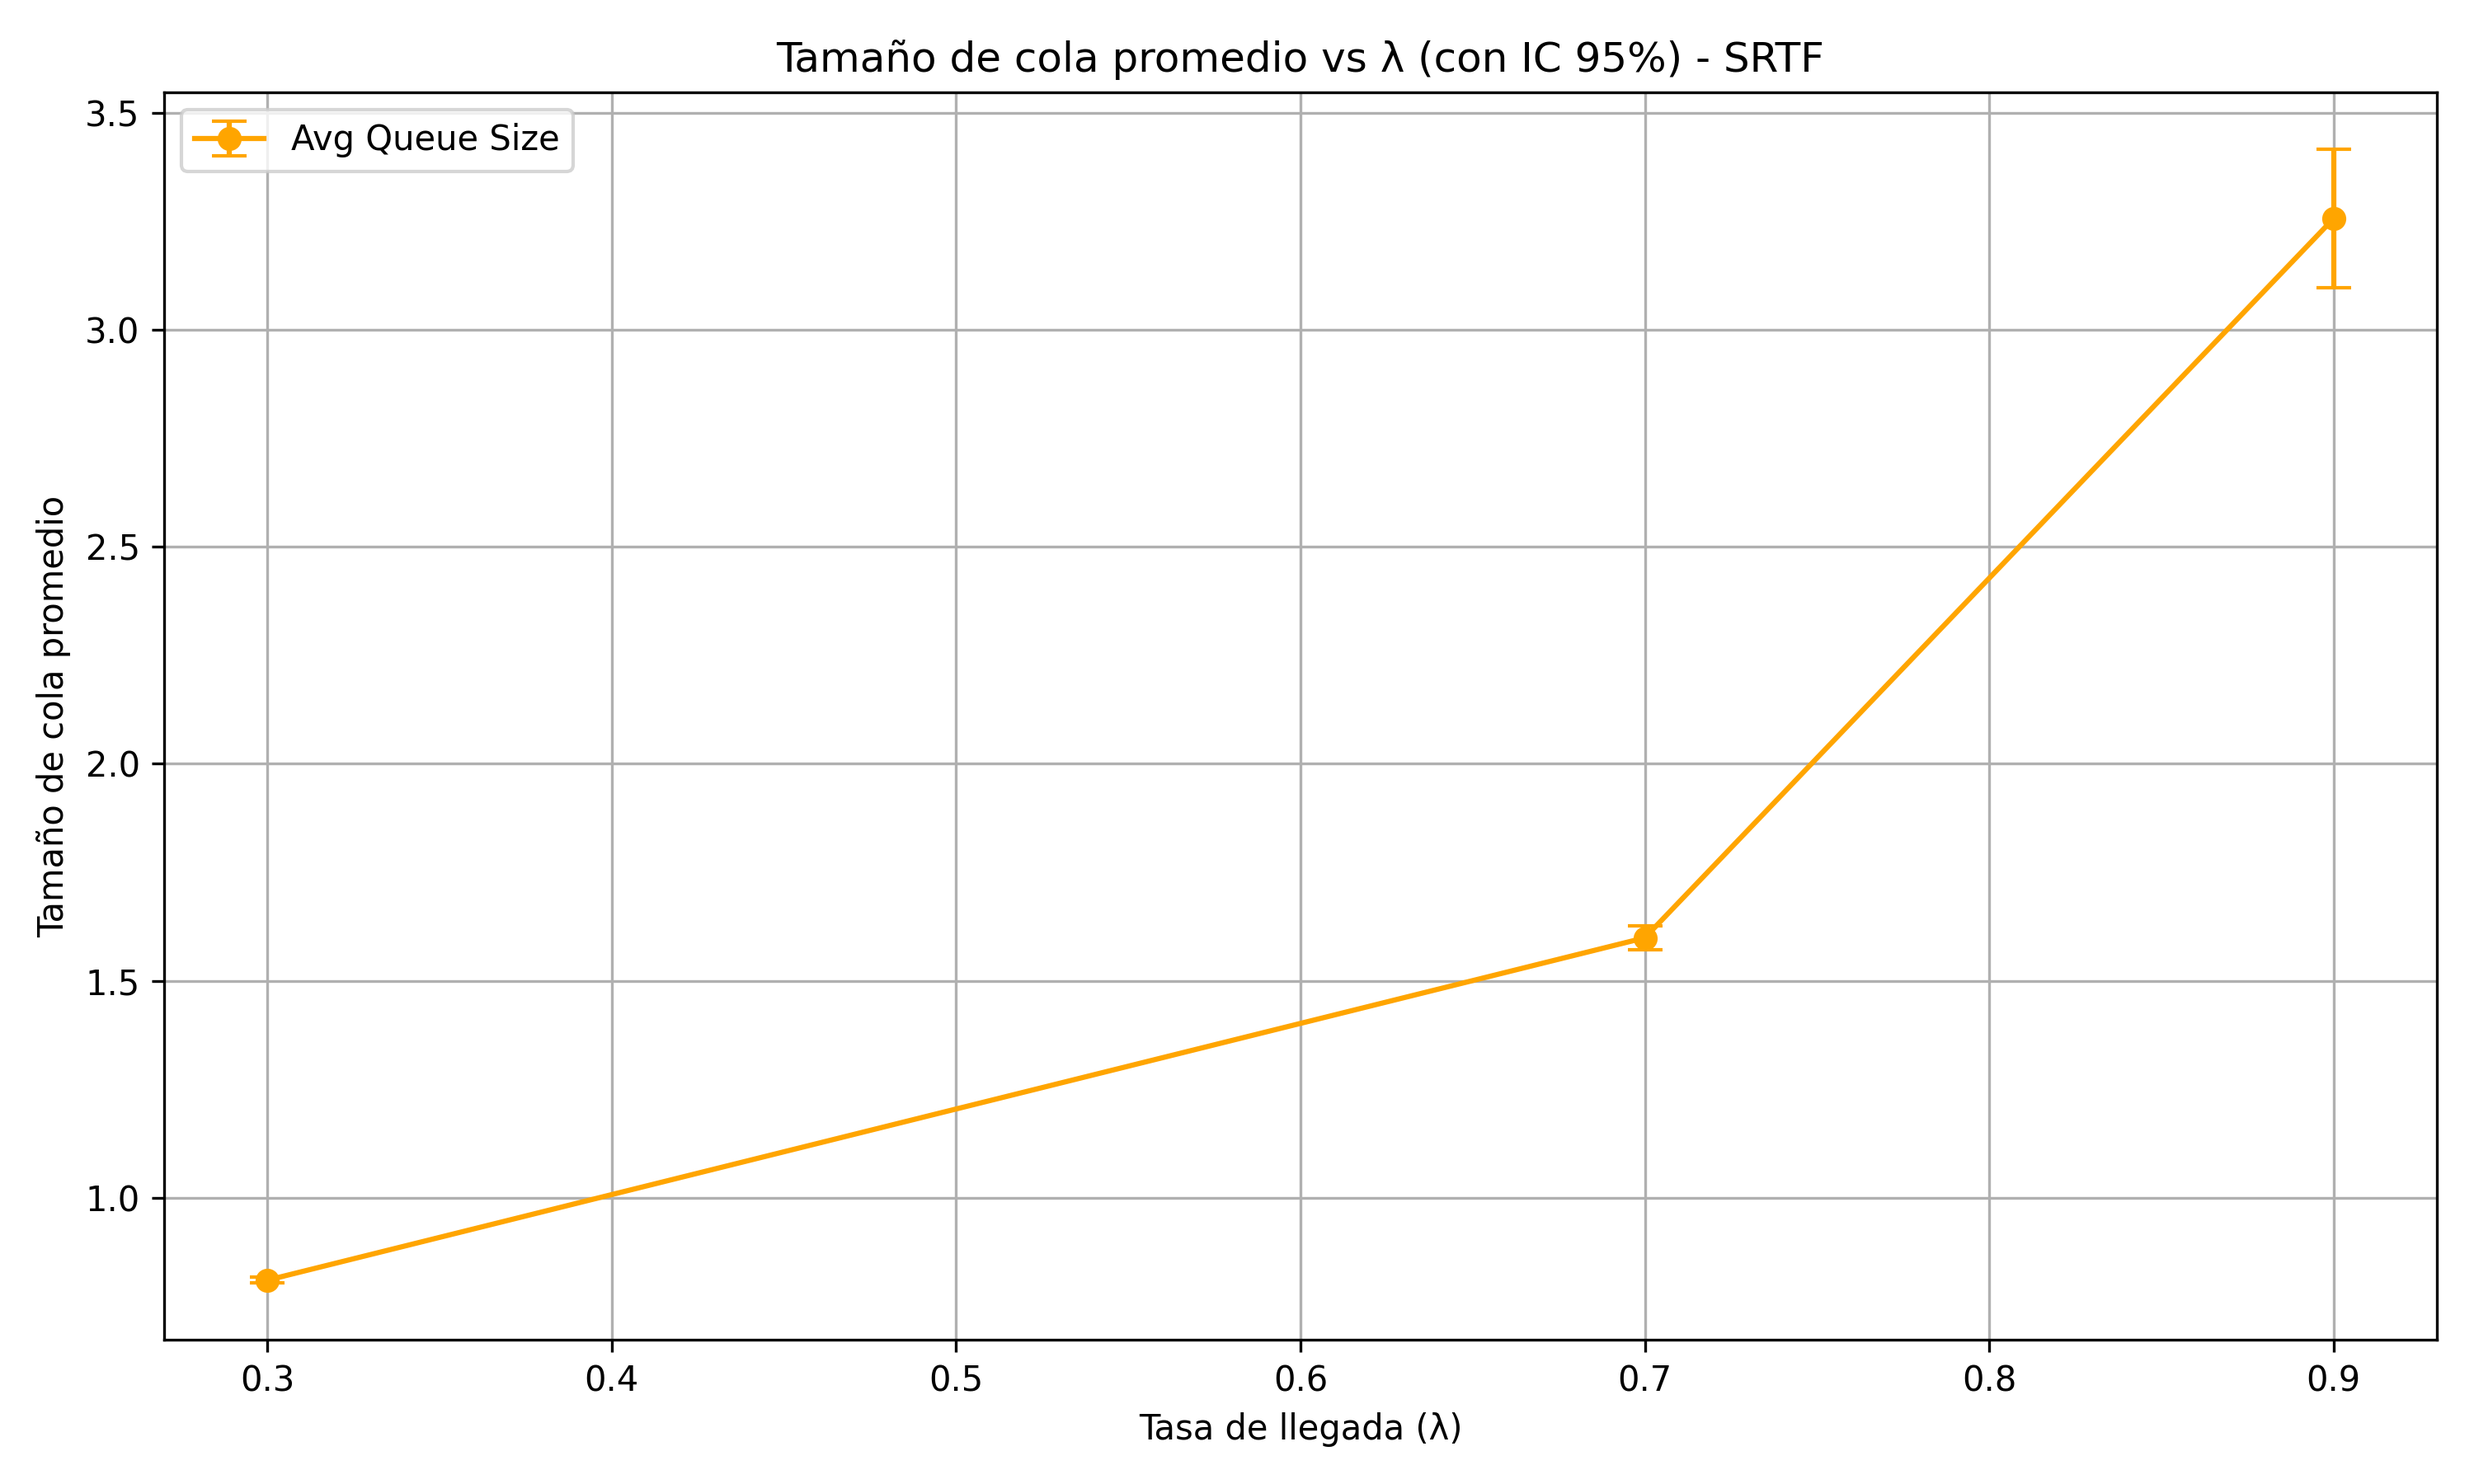
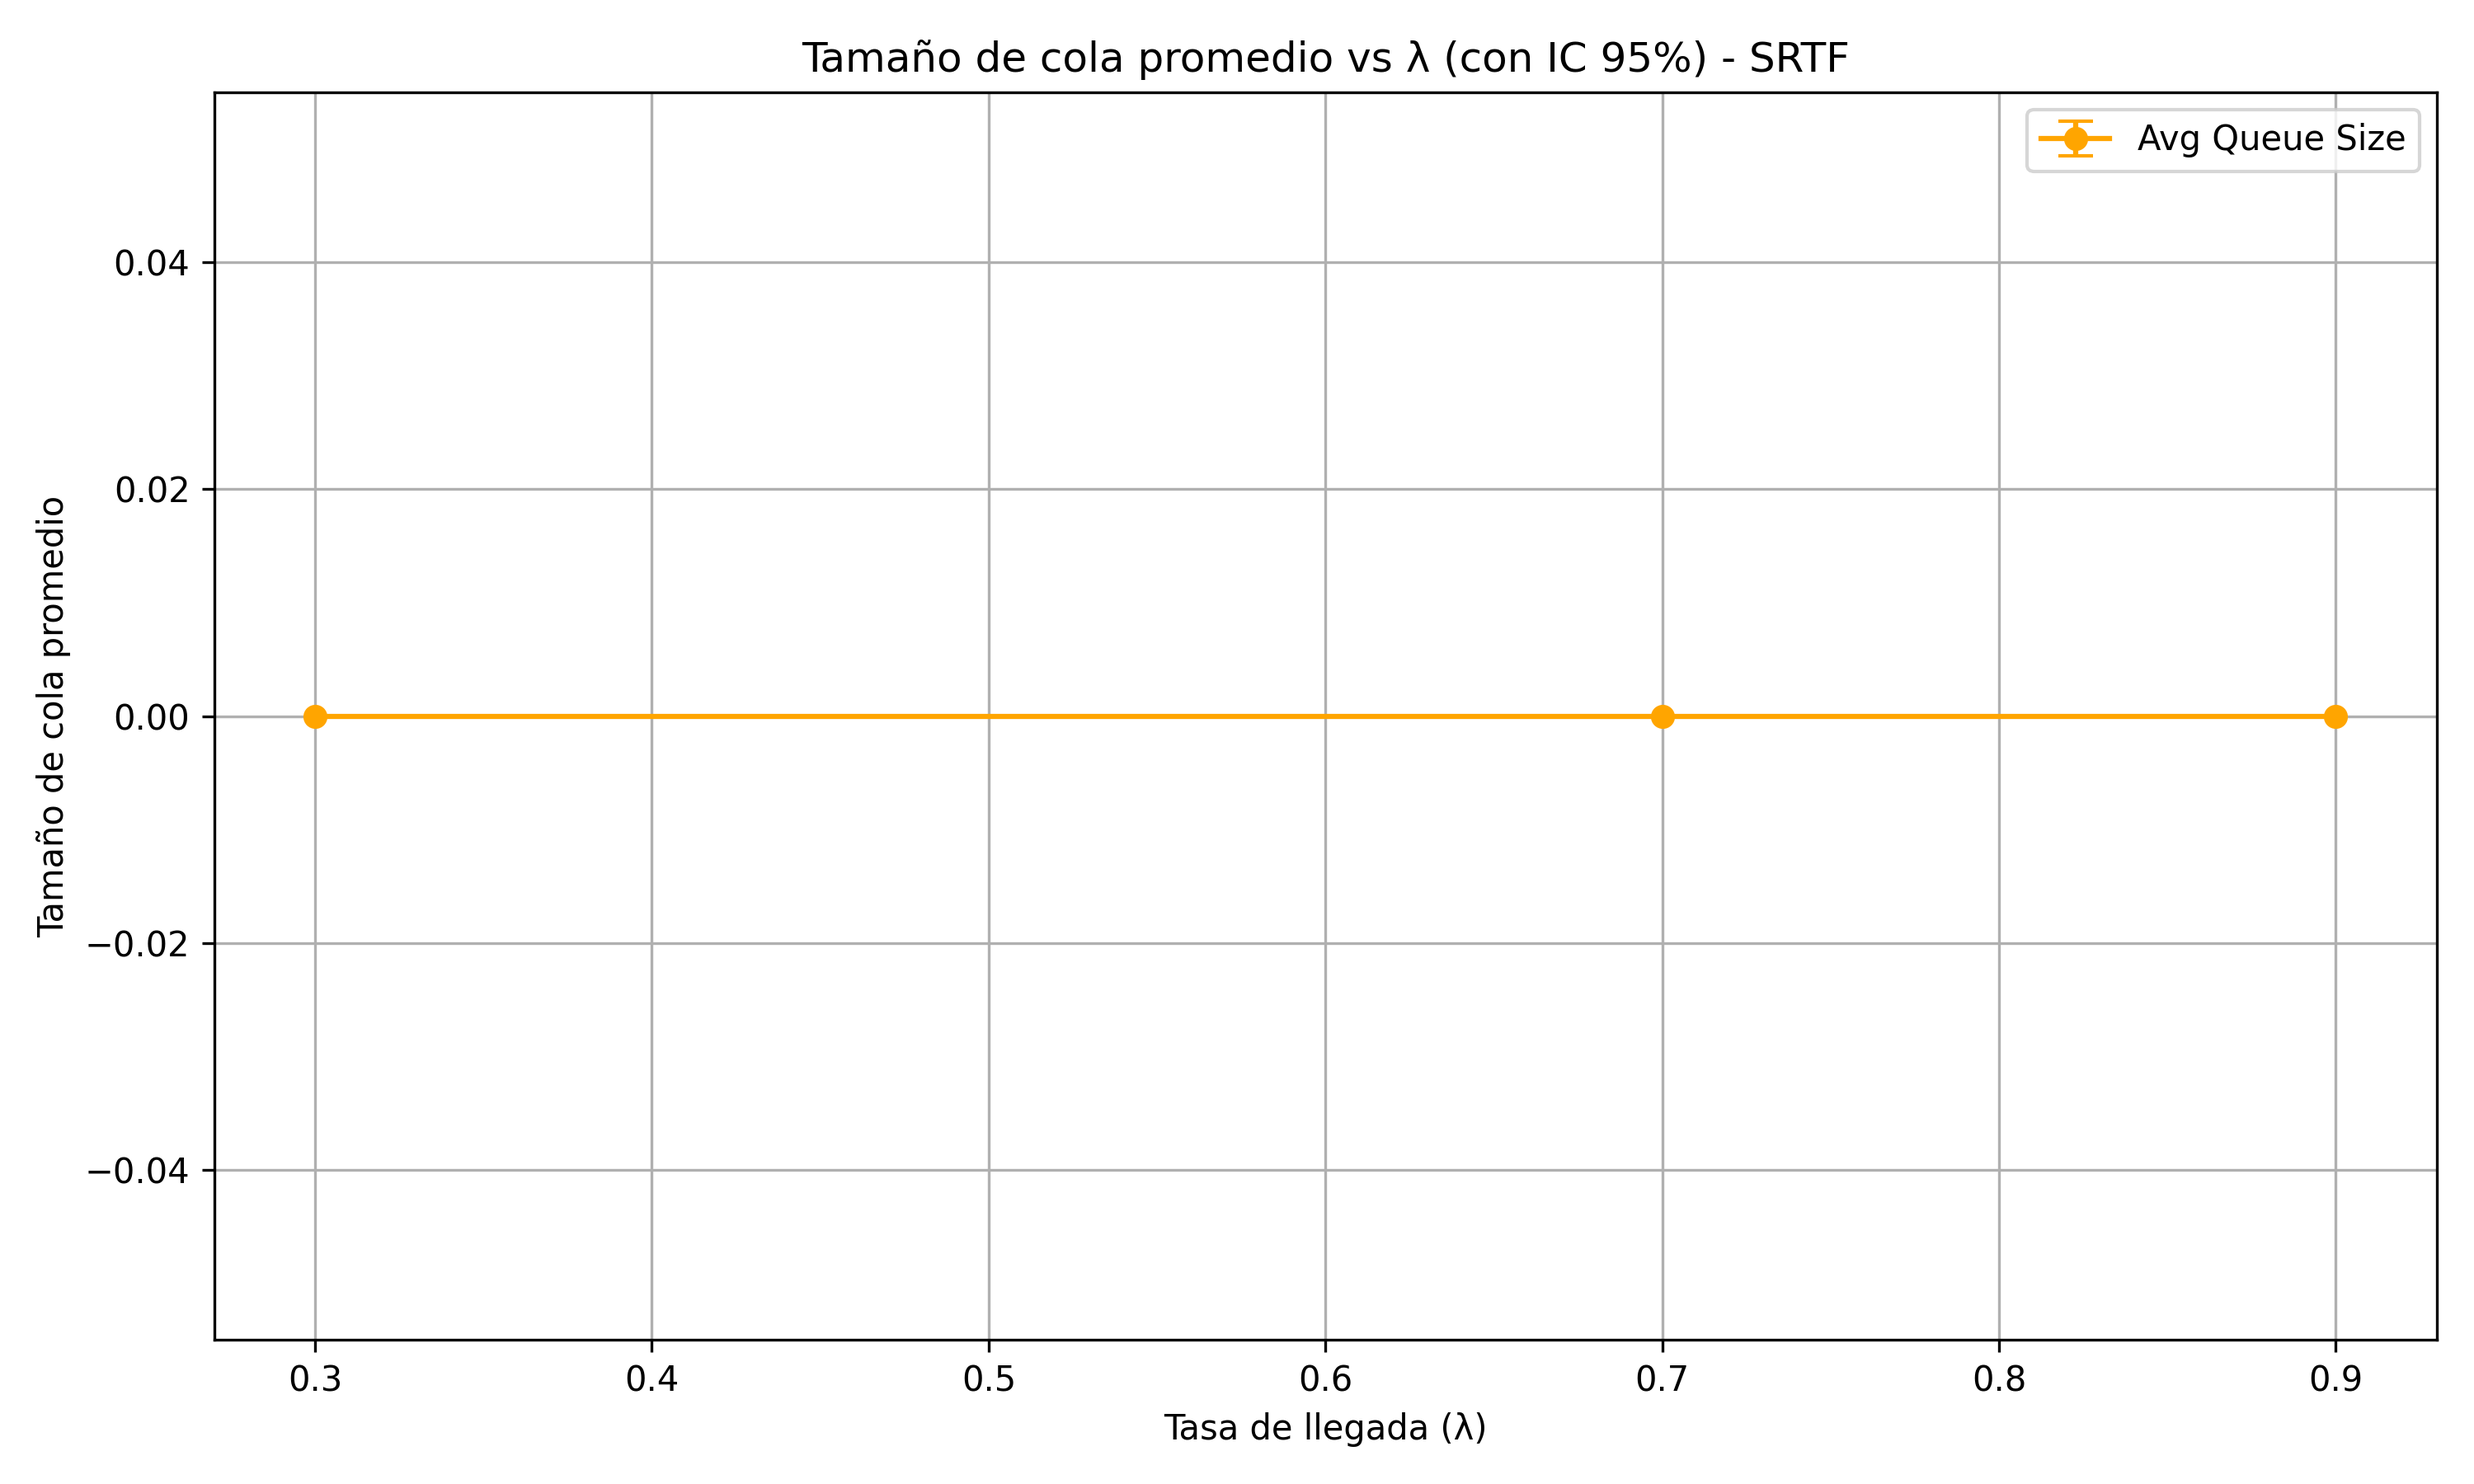
p

diff --git a/src/analysis/plots.py b/src/analysis/plots.py
@@ -1,142 +1,3 @@
-# import matplotlib.pyplot as plt
-# import numpy as np
-
-# def plot_metrics(experiment_data):
-#     """Genera gráficas comparativas."""
-#     fig, axes = plt.subplots(2, 2, figsize=(14, 10))
-    
-#     # Extraer datos
-#     rho_values = [exp["rho"] for exp in experiment_data]
-    
-#     # Gráfica 1: Waiting Time vs. ρ
-#     for algo in ["SRTF", "FCFS", "RoundRobin"]:
-#         avg_waiting = []
-#         for exp in experiment_data:
-#             waiting_times = []
-#             for run in exp["results"]:
-#                 if algo in run:
-#                     waiting_times.extend(run[algo]["waiting_times"])
-#             avg_waiting.append(np.mean(waiting_times) if waiting_times else 0)
-#         axes[0, 0].plot(rho_values, avg_waiting, label=algo, marker='o')
-#     axes[0, 0].set_xlabel("p (λ/μ)")
-#     axes[0, 0].set_ylabel("Avg Waiting Time")
-#     axes[0, 0].set_title("Waiting Time vs. Carga del Sistema")
-#     axes[0, 0].legend()
-    
-#     # # Gráfica 2: Throughput
-#     # for algo in ["SRTF", "FCFS", "RoundRobin"]:
-#     #     throughputs = []
-#     #     for exp in experiment_data:
-#     #         throughput = []
-#     #         for run in exp["results"]:
-#     #             if algo in run:
-#     #                 throughput.append(run[algo]["throughput"])
-#     #         throughputs.append(np.mean(throughput) if throughput else 0)
-#     #     axes[0, 1].plot(rho_values, throughputs, label=algo, marker='o')
-#     # axes[0, 1].set_xlabel("p (λ/μ)")
-#     # axes[0, 1].set_ylabel("Throughput (procesos/segundo)")
-#     # axes[0, 1].set_title("Throughput vs. Carga del Sistema")
-#     # axes[0, 1].legend()
-    
-#     plt.tight_layout()
-#     plt.savefig("results/metrics_comparison.png")
-#     plt.show()
-
-
-
-
-
-
-
-
-
-
-
-
-
-
-
-
-
-
-
-
-# import matplotlib.pyplot as plt
-# import pandas as pd
-
-
-# def plot_metrics(experiment_data):
-
-#     lambda_values = []
-#     rho_values = []
-#     waiting_time = []
-#     turnaround_time = []
-
-#     for item in experiment_data:
-#         lambda_values.append(item["arrival_rate"])
-#         rho_values.append(item["rho"])
-#         waiting_time.append(item["results"]["avg_waiting_time"])
-#         turnaround_time.append(item["results"]["avg_turnaround_time"])
-
-
-#     # Graficar tiempo de espera vs lambda
-#     plt.figure(figsize=(8, 5))
-#     plt.plot(lambda_values, waiting_time, marker='o', color='blue', label='Average Waiting Time')
-#     plt.xlabel("Arrival Rate (λ)")
-#     plt.ylabel("Average Waiting Time")
-#     plt.title("Average Waiting Time vs λ")
-#     plt.grid(True)
-#     plt.legend()
-#     plt.savefig("avg_waiting_time_vs_lambda.png")
-#     plt.show()
-
-
-
-#     # Graficar tiempo de turnaround vs lambda
-#     plt.figure(figsize=(8, 5))
-#     plt.plot(lambda_values, turnaround_time, marker='o', color='green', label='Average Turnaround Time')
-#     plt.xlabel("Arrival Rate (λ)")
-#     plt.ylabel("Average Turnaround Time")
-#     plt.title("Average Turnaround Time vs λ")
-#     plt.grid(True)
-#     plt.legend()
-#     plt.savefig("avg_turnaround_time_vs_lambda.png")
-#     plt.show()
-
-
-
-
-
-
-
-
-
-
-
-
-
-
-
-
-
-
-
-
-
-
-
-
-
-
-
-
-
-
-
-
-
-
-
 import matplotlib.pyplot as plt
 import numpy as np
 from scipy import stats

diff --git a/src/srtf.py b/src/srtf.py
@@ -7,7 +7,8 @@ class SRTF(IScheduling):
         super().__init__()
         self.ready_queue = []  # Min-heap by (remaining_time, pid, process)
         self.running_process = None
-        
+        #self.context_switches =0 # Contador de cmabios de contextos
+        self.last_pid = None
 
     def add_process(self, process: Process):
         arrival_event = Event(process.arrival_time, 'ARRIVAL', process)
@@ -23,6 +24,10 @@ class SRTF(IScheduling):
             # Check for preemption
             if self.running_process and process.remaining_time < self.running_process.remaining_time:
                 heapq.heappush(self.ready_queue, (self.running_process.remaining_time, self.running_process.pid, self.running_process))
+                
+                self.context_switches += 1
+                self.last_pid = None  # Para que el siguiente proceso que entre sea comparado correctamente
+            
                 self.running_process = None
                 self.queue_length_log.append((self.current_time, len(self.ready_queue)))  # Log cola tras preempción
 
@@ -33,6 +38,13 @@ class SRTF(IScheduling):
             if not self.running_process:
                 if self.ready_queue:
                     _, _, proc = heapq.heappop(self.ready_queue)
+                    
+                    if self.last_pid is not None and proc.pid != self.last_pid:
+                        self.context_switches +=1
+                    
+                    self.last_pid = proc.pid
+
+                    
                     if proc.start_time is None:
                         proc.start_time = self.current_time
                     self.running_process = proc
@@ -55,6 +67,7 @@ class SRTF(IScheduling):
                 self.completed_processes.append(self.running_process)
                 self.running_process = None
                 self.queue_length_log.append((self.current_time, len(self.ready_queue)))  # Log tras finalización
+                self.last_pid = None
 
             while self.event_queue and self.event_queue[0].time <= self.current_time:
                 event = heapq.heappop(self.event_queue)
@@ -66,7 +79,7 @@ class SRTF(IScheduling):
                     heapq.heappush(self.ready_queue, (self.running_process.remaining_time, self.running_process.pid, self.running_process))
                     self.running_process = None
                     self.queue_length_log.append((self.current_time, len(self.ready_queue)))  # Log preempción
-                    
+
     def handle_arrival(self, process: Process):
         return super().handle_arrival(process)
     

diff --git a/src/main.py b/src/main.py
@@ -1,6 +1,6 @@
 
 from simulation import CpuSchedulerSimulation
-from analysis.plots import plot_and_save_metrics
+import analysis.plots as analysis
 import numpy as np
 import os
 
@@ -13,33 +13,70 @@ def run_experiments():
     closing_time = 1000               # Tiempo de simulación
     n_runs = 200                      # Réplicas por configuración
 
-    all_results = []
-    
+    all_results_srtf = []
+    all_results_rr = []
+    all_results_mlfq = []
+    all_results_fcfs = []
+
     for λ in arrival_rates:
         print(f"Running experiments for λ = {λ}...")
-        results=[]
+        results_srtf=[]
+        results_fcfs=[]
+        results_rr = []
+        results_mlfq = []
         for _ in range(n_runs):
         
             sim = CpuSchedulerSimulation(λ, execution_rate, closing_time)
             sim.run_event()
 
             result = sim.statistics()
-            results.append(result["SRTF"])
-        
-    
-        all_results.append({
+            results_srtf.append(result["SRTF"])
+            results_fcfs.append(result["FCFS"])
+            results_mlfq.append(result["MLFQ"])
+            results_rr.append(result["RoundRobin"])
+
+
+        all_results_fcfs.append({
                 "arrival_rate": λ,
                 "rho": λ / execution_rate,
-                "results": results
+                "results": results_fcfs
+        })
+
+        all_results_srtf.append({
+                "arrival_rate": λ,
+                "rho": λ / execution_rate,
+                "results": results_srtf
+        })
+
+        all_results_mlfq.append({
+                "arrival_rate": λ,
+                "rho": λ / execution_rate,
+                "results": results_mlfq
+        })
+
+        all_results_rr.append({
+                "arrival_rate": λ,
+                "rho": λ / execution_rate,
+                "results": results_rr
         })
     
-    return all_results
+    return all_results_srtf, all_results_fcfs,all_results_rr,all_results_mlfq
 
 if __name__ == "__main__":
 
-
-
-    data = run_experiments()
+    data_srtf,data_fcfs,data_rr,data_mlfq = run_experiments()
     
-    plot_and_save_metrics(data)
+    analysis.plot_and_save_metrics(data_srtf)
+
+    print(89)
+    print(data_rr)
+    analysis.plot_and_save_metrics(data_rr)
+    print(89)
+    print(data_rr)
+    analysis.plot_and_save_metrics(data_mlfq)
+    print(89)
+    analysis.plot_algorithm_comparison(data_srtf,data_fcfs)
+
+    analysis.plot_context_switches(data_srtf)
+
     

diff --git a/src/simulation.py b/src/simulation.py
@@ -97,7 +97,8 @@ class CpuSchedulerSimulation:
                 'waiting_times': waiting,
                 'turnaround_times': turnaround,
                 'avg_queue_size': sum(size for _,size in scheduler.queue_length_log) / len(scheduler.queue_length_log)
-                                    if len(scheduler.queue_length_log) >0  else 0
+                                    if len(scheduler.queue_length_log) >0  else 0,
+                'context_switches': scheduler.context_switches
             }
         return results
 

diff --git a/src/scheduling.py b/src/scheduling.py
@@ -10,6 +10,7 @@ class IScheduling(ABC):
         self.completed_processes:List[Process] = []   # List to store processes once they finish execution
         self.event_queue:List[Event] = []           # Event queue for discrete event simulation
         self.queue_length_log = []
+        self.context_switches=0
         
     @abstractmethod
     def add_process(self, process: Process):
